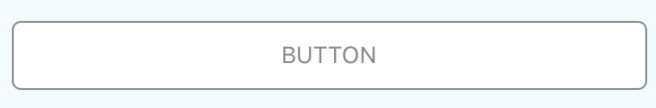
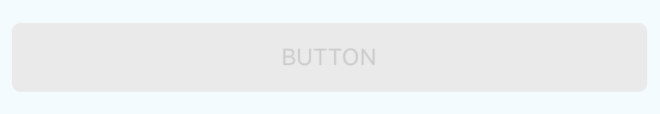
ch2878/disabled-button-style-change

Changed region(s): [[0.0, 0.1944, 1.0, 0.8333], [0.4268, 0.4167, 0.5793, 0.5833]]

diff --git a/src/components/Button/styles.ts b/src/components/Button/styles.ts
@@ -65,11 +65,13 @@ const Container = styled.TouchableOpacity<ContainerProps>`
   padding: 10px 20px;
   background-color: ${props =>
     props.disabled
-      ? colors.WHITE
+      ? colors.GREY_LIGHT
       : getBackgroundColor(props.color, props.type)};
   border-radius: ${props => (props.shape === "rounded" ? "30px" : "5px")};
   border-color: ${props =>
-    props.disabled ? colors.GREY : getBorderColor(props.color, props.type)};
+    props.disabled
+      ? colors.GREY_LIGHT
+      : getBorderColor(props.color, props.type)};
   border-width: 1px;
   display: flex;
   width: ${props => getButtonWidth(props.width)};
@@ -87,7 +89,7 @@ interface ButtonTextProps {
 
 const ButtonText = styled.Text<ButtonTextProps>`
   color: ${props =>
-    props.disabled ? colors.GREY : getTextColor(props.color, props.type)};
+    props.disabled ? colors.GREY_MID : getTextColor(props.color, props.type)};
   font-size: ${props => props.fontSize || DEFAULT_FONT_SIZE}px;
 `;
 

diff --git a/docs/Button.md b/docs/Button.md
@@ -58,13 +58,7 @@ ReactDOM.render(
 
 ```jsx
 ReactDOM.render(
-  <Button
-    disabled
-    text="BUTTON"
-    color="blue"
-    type="outline"
-    onPress={() => {}}
-  />,
+  <Button disabled text="BUTTON" color="blue" onPress={() => {}} />,
   mountNode
 );
 ```
